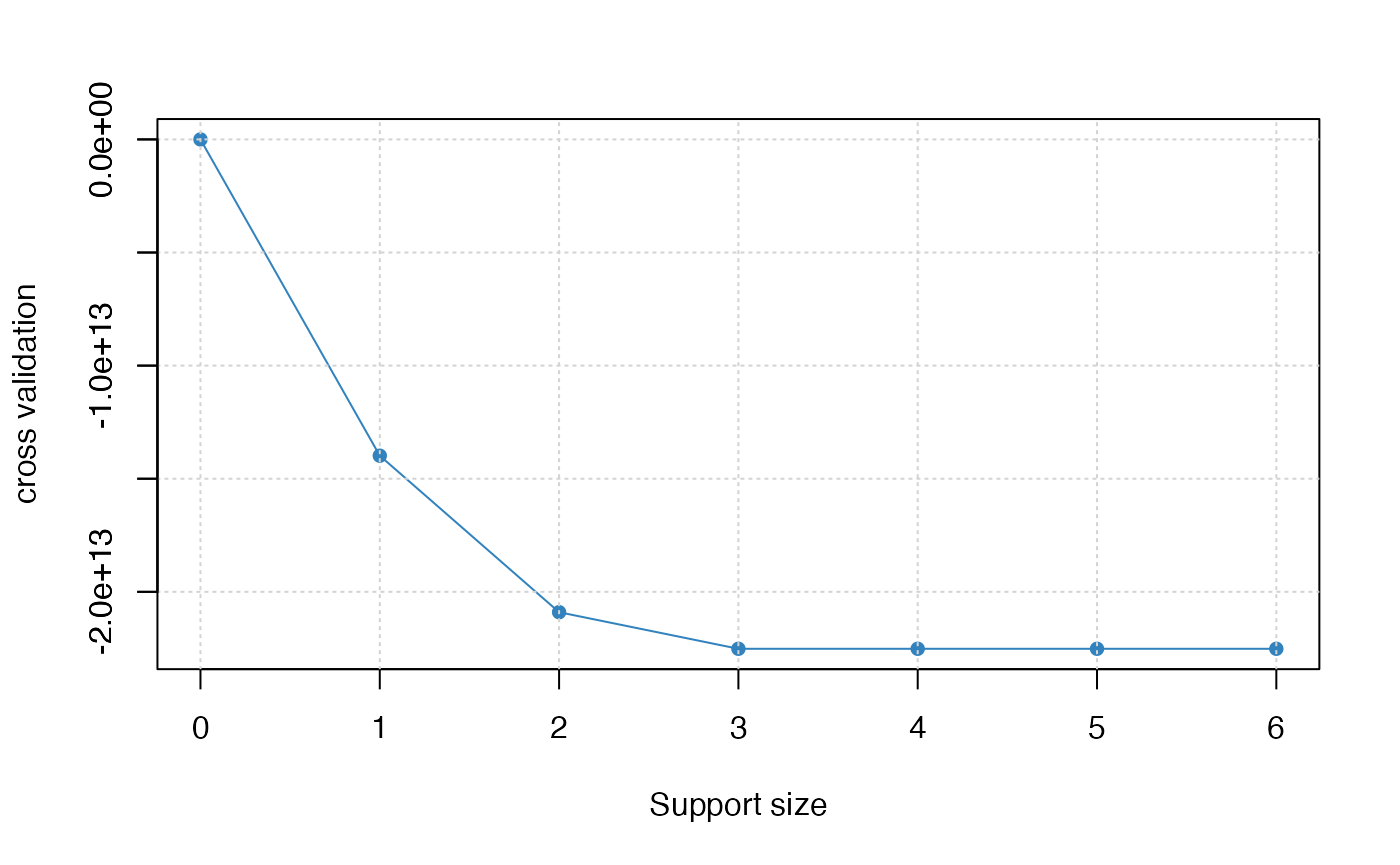
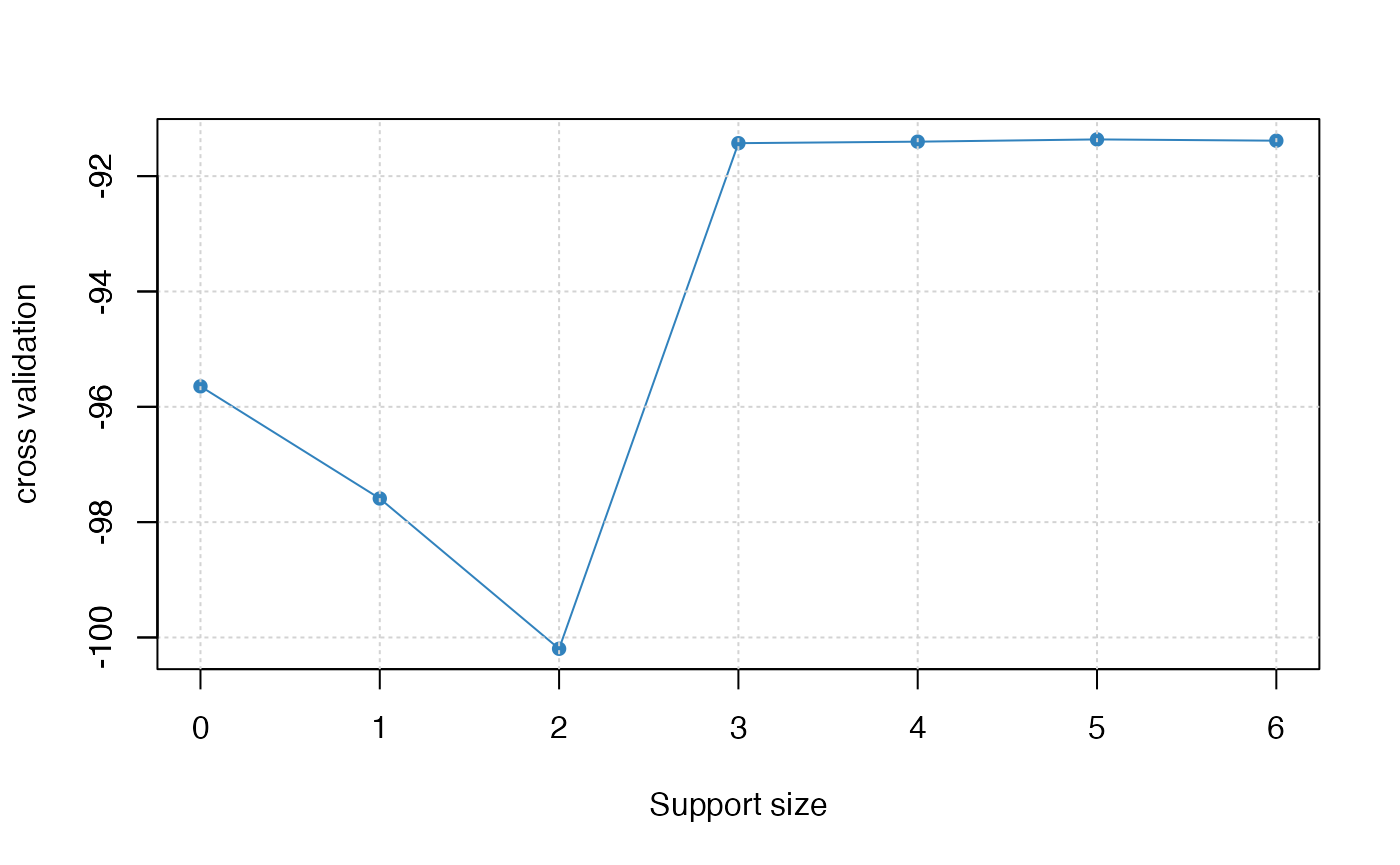
Built site for abess: 0.4.7@f8aaf31

diff --git a/articles/v04-PoissonGammaReg.html b/articles/v04-PoissonGammaReg.html
@@ -42,7 +42,7 @@
       </button>
       <span class="navbar-brand">
         <a class="navbar-link" href="../index.html">abess</a>
-        <span class="version label label-default" data-toggle="tooltip" data-placement="bottom" title="">0.4.6</span>
+        <span class="version label label-default" data-toggle="tooltip" data-placement="bottom" title="">0.4.7</span>
       </span>
     </div>
 
@@ -302,27 +302,26 @@ y_i \sim Gamma(\mu_i, \alpha),
 <span><span class="co"># draw the estimated coefficients on all candidate support size</span></span>
 <span><span class="fu"><a href="https://rdrr.io/r/stats/coef.html" class="external-link">coef</a></span><span class="op">(</span><span class="va">abess_fit</span><span class="op">)</span></span></code></pre></div>
 <pre><code><span><span class="co">## 7 x 7 sparse Matrix of class "dgCMatrix"</span></span>
-<span><span class="co">##                    0            1            2            3            4</span></span>
-<span><span class="co">## (intercept) 342.3786 2.959996e+14 3.779995e+14 3.779995e+14 3.779995e+14</span></span>
-<span><span class="co">## age           .      .            .            .            .           </span></span>
-<span><span class="co">## sex           .      .            .            .            .           </span></span>
-<span><span class="co">## job           .      .            .            .            .           </span></span>
-<span><span class="co">## education     .      .            .            .            .           </span></span>
-<span><span class="co">## region        .      .            .            .            .           </span></span>
-<span><span class="co">## marriage      .      .            .            .            .           </span></span>
-<span><span class="co">##                        5            6</span></span>
-<span><span class="co">## (intercept) 3.779995e+14 3.779995e+14</span></span>
-<span><span class="co">## age         .            .           </span></span>
-<span><span class="co">## sex         .            .           </span></span>
-<span><span class="co">## job         .            .           </span></span>
-<span><span class="co">## education   .            .           </span></span>
-<span><span class="co">## region      .            .           </span></span>
-<span><span class="co">## marriage    .            .</span></span></code></pre>
+<span><span class="co">##                     0         1          2          3          4          5</span></span>
+<span><span class="co">## (intercept) -342.3786 -433.5399 -449.27779 -453.62074 -454.59784 -456.83735</span></span>
+<span><span class="co">## age            .         .         .          .          .         12.70809</span></span>
+<span><span class="co">## sex            .         .         .          .         17.01286   15.27728</span></span>
+<span><span class="co">## job            .         .      -105.29506  -84.15002  -85.32491  -87.44926</span></span>
+<span><span class="co">## education      .         .         .        -72.27035  -71.99079  -71.34322</span></span>
+<span><span class="co">## region         .      -132.5486  -72.92359  -54.95904  -58.83054  -61.00715</span></span>
+<span><span class="co">## marriage       .         .         .          .          .          .      </span></span>
+<span><span class="co">##                        6</span></span>
+<span><span class="co">## (intercept) -456.9221416</span></span>
+<span><span class="co">## age           12.6864623</span></span>
+<span><span class="co">## sex           15.1309584</span></span>
+<span><span class="co">## job          -87.4276072</span></span>
+<span><span class="co">## education    -71.2956647</span></span>
+<span><span class="co">## region       -61.0176080</span></span>
+<span><span class="co">## marriage      -0.8781846</span></span></code></pre>
 <div class="sourceCode" id="cb30"><pre class="downlit sourceCode r">
 <code class="sourceCode R"><span><span class="co"># get the deviance of the estimated model on all candidate support size</span></span>
 <span><span class="fu"><a href="https://rdrr.io/r/stats/deviance.html" class="external-link">deviance</a></span><span class="op">(</span><span class="va">abess_fit</span><span class="op">)</span></span></code></pre></div>
-<pre><code><span><span class="co">## [1]  4.835917e+02 -8.645388e+13 -1.104040e+14 -1.104040e+14 -1.104040e+14</span></span>
-<span><span class="co">## [6] -1.104040e+14 -1.104040e+14</span></span></code></pre>
+<pre><code><span><span class="co">## [1] -483.5917 -497.9948 -504.1093 -505.8884 -505.9648 -506.0127 -506.0129</span></span></code></pre>
 <div class="sourceCode" id="cb32"><pre class="downlit sourceCode r">
 <code class="sourceCode R"><span><span class="co"># print the fitted model</span></span>
 <span><span class="fu"><a href="https://rdrr.io/r/base/print.html" class="external-link">print</a></span><span class="op">(</span><span class="va">abess_fit</span><span class="op">)</span></span></code></pre></div>
@@ -330,24 +329,24 @@ y_i \sim Gamma(\mu_i, \alpha),
 <span><span class="co">## abess.formula(formula = count ~ ., data = complain, family = "gamma", </span></span>
 <span><span class="co">##     tune.type = "cv")</span></span>
 <span><span class="co">## </span></span>
-<span><span class="co">##   support.size           dev            cv</span></span>
-<span><span class="co">## 1            0  4.835917e+02  9.564499e+01</span></span>
-<span><span class="co">## 2            1 -8.645388e+13 -1.398192e+13</span></span>
-<span><span class="co">## 3            2 -1.104040e+14 -2.090066e+13</span></span>
-<span><span class="co">## 4            3 -1.104040e+14 -2.251801e+13</span></span>
-<span><span class="co">## 5            4 -1.104040e+14 -2.251801e+13</span></span>
-<span><span class="co">## 6            5 -1.104040e+14 -2.251801e+13</span></span>
-<span><span class="co">## 7            6 -1.104040e+14 -2.251801e+13</span></span></code></pre>
+<span><span class="co">##   support.size       dev         cv</span></span>
+<span><span class="co">## 1            0 -483.5917  -95.64499</span></span>
+<span><span class="co">## 2            1 -497.9948  -97.58997</span></span>
+<span><span class="co">## 3            2 -504.1093 -100.19614</span></span>
+<span><span class="co">## 4            3 -505.8884  -91.42828</span></span>
+<span><span class="co">## 5            4 -505.9648  -91.40218</span></span>
+<span><span class="co">## 6            5 -506.0127  -91.36313</span></span>
+<span><span class="co">## 7            6 -506.0129  -91.38519</span></span></code></pre>
 <div class="sourceCode" id="cb34"><pre class="downlit sourceCode r">
 <code class="sourceCode R"><span><span class="co"># predict results for given support sizes</span></span>
 <span><span class="fu"><a href="https://rdrr.io/r/utils/head.html" class="external-link">head</a></span><span class="op">(</span><span class="fu"><a href="https://rdrr.io/r/stats/predict.html" class="external-link">predict</a></span><span class="op">(</span><span class="va">abess_fit</span>, newx <span class="op">=</span> <span class="va">dat</span><span class="op">$</span><span class="va">x</span>, support.size <span class="op">=</span> <span class="fu"><a href="https://rdrr.io/r/base/c.html" class="external-link">c</a></span><span class="op">(</span><span class="fl">3</span>, <span class="fl">4</span><span class="op">)</span><span class="op">)</span><span class="op">)</span></span></code></pre></div>
-<pre><code><span><span class="co">##                 3            4</span></span>
-<span><span class="co">## [1,] 3.779995e+14 3.779995e+14</span></span>
-<span><span class="co">## [2,] 3.779995e+14 3.779995e+14</span></span>
-<span><span class="co">## [3,] 3.779995e+14 3.779995e+14</span></span>
-<span><span class="co">## [4,] 3.779995e+14 3.779995e+14</span></span>
-<span><span class="co">## [5,] 3.779995e+14 3.779995e+14</span></span>
-<span><span class="co">## [6,] 3.779995e+14 3.779995e+14</span></span></code></pre>
+<pre><code><span><span class="co">##              3         4</span></span>
+<span><span class="co">## [1,] -611.7083 -627.6304</span></span>
+<span><span class="co">## [2,] -624.2342 -634.1109</span></span>
+<span><span class="co">## [3,] -696.4613 -711.9142</span></span>
+<span><span class="co">## [4,] -376.5679 -373.0617</span></span>
+<span><span class="co">## [5,] -357.9886 -365.3433</span></span>
+<span><span class="co">## [6,] -752.4414 -724.4093</span></span></code></pre>
 <div class="sourceCode" id="cb36"><pre class="downlit sourceCode r">
 <code class="sourceCode R"><span><span class="fu"><a href="https://rdrr.io/r/graphics/plot.default.html" class="external-link">plot</a></span><span class="op">(</span><span class="va">abess_fit</span>, label <span class="op">=</span> <span class="cn">TRUE</span><span class="op">)</span></span></code></pre></div>
 <p><img src="v04-PoissonGammaReg_files/figure-html/unnamed-chunk-9-1.png" width="700"></p>
@@ -361,31 +360,31 @@ y_i \sim Gamma(\mu_i, \alpha),
 <span><span class="fu"><a href="https://rdrr.io/r/utils/str.html" class="external-link">str</a></span><span class="op">(</span><span class="va">best.model</span><span class="op">)</span></span></code></pre></div>
 <pre><code><span><span class="co">## List of 7</span></span>
 <span><span class="co">##  $ beta        :Formal class 'dgCMatrix' [package "Matrix"] with 6 slots</span></span>
-<span><span class="co">##   .. ..@ i       : int(0) </span></span>
-<span><span class="co">##   .. ..@ p       : int [1:2] 0 0</span></span>
+<span><span class="co">##   .. ..@ i       : int [1:3] 2 3 4</span></span>
+<span><span class="co">##   .. ..@ p       : int [1:2] 0 3</span></span>
 <span><span class="co">##   .. ..@ Dim     : int [1:2] 6 1</span></span>
 <span><span class="co">##   .. ..@ Dimnames:List of 2</span></span>
 <span><span class="co">##   .. .. ..$ : chr [1:6] "age" "sex" "job" "education" ...</span></span>
 <span><span class="co">##   .. .. ..$ : chr "3"</span></span>
-<span><span class="co">##   .. ..@ x       : num(0) </span></span>
+<span><span class="co">##   .. ..@ x       : num [1:3] -84.2 -72.3 -55</span></span>
 <span><span class="co">##   .. ..@ factors : list()</span></span>
-<span><span class="co">##  $ intercept   : num 3.78e+14</span></span>
+<span><span class="co">##  $ intercept   : num -454</span></span>
 <span><span class="co">##  $ support.size: num 3</span></span>
-<span><span class="co">##  $ support.vars: chr(0) </span></span>
-<span><span class="co">##  $ support.beta: num(0) </span></span>
-<span><span class="co">##  $ dev         : num -1.1e+14</span></span>
-<span><span class="co">##  $ tune.value  : num -2.25e+13</span></span></code></pre>
+<span><span class="co">##  $ support.vars: chr [1:3] "job" "education" "region"</span></span>
+<span><span class="co">##  $ support.beta: num [1:3] -84.2 -72.3 -55</span></span>
+<span><span class="co">##  $ dev         : num -506</span></span>
+<span><span class="co">##  $ tune.value  : num -91.4</span></span></code></pre>
 <div class="sourceCode" id="cb40"><pre class="downlit sourceCode r">
 <code class="sourceCode R"><span><span class="co"># estimated coefficients</span></span>
 <span><span class="va">best.model</span><span class="op">$</span><span class="va">beta</span></span></code></pre></div>
 <pre><code><span><span class="co">## 6 x 1 sparse Matrix of class "dgCMatrix"</span></span>
-<span><span class="co">##           3</span></span>
-<span><span class="co">## age       .</span></span>
-<span><span class="co">## sex       .</span></span>
-<span><span class="co">## job       .</span></span>
-<span><span class="co">## education .</span></span>
-<span><span class="co">## region    .</span></span>
-<span><span class="co">## marriage  .</span></span></code></pre>
+<span><span class="co">##                   3</span></span>
+<span><span class="co">## age         .      </span></span>
+<span><span class="co">## sex         .      </span></span>
+<span><span class="co">## job       -84.15002</span></span>
+<span><span class="co">## education -72.27035</span></span>
+<span><span class="co">## region    -54.95904</span></span>
+<span><span class="co">## marriage    .</span></span></code></pre>
 </div>
   </div>
 

diff --git a/articles/v09-fasterSetting.html b/articles/v09-fasterSetting.html
@@ -42,7 +42,7 @@
       </button>
       <span class="navbar-brand">
         <a class="navbar-link" href="../index.html">abess</a>
-        <span class="version label label-default" data-toggle="tooltip" data-placement="bottom" title="">0.4.6</span>
+        <span class="version label label-default" data-toggle="tooltip" data-placement="bottom" title="">0.4.7</span>
       </span>
     </div>
 
@@ -176,13 +176,13 @@
 <span><span class="va">x</span> <span class="op">&lt;-</span> <span class="fu"><a href="https://rdrr.io/pkg/Matrix/man/Matrix.html" class="external-link">Matrix</a></span><span class="op">(</span><span class="va">x</span><span class="op">)</span></span>
 <span><span class="fu"><a href="https://rdrr.io/r/utils/head.html" class="external-link">head</a></span><span class="op">(</span><span class="va">x</span><span class="op">[</span>, <span class="fl">1</span><span class="op">:</span><span class="fl">10</span><span class="op">]</span><span class="op">)</span></span></code></pre></div>
 <pre><code><span><span class="co">## 6 x 10 sparse Matrix of class "dgCMatrix"</span></span>
-<span><span class="co">##                                                                        </span></span>
-<span><span class="co">## [1,] . .         .        -1.811195 .        . . -0.1597067 .         .</span></span>
-<span><span class="co">## [2,] . 0.5959406 .         .        .        . .  .         .         .</span></span>
-<span><span class="co">## [3,] . .         .         .        0.587469 . .  .         .         .</span></span>
-<span><span class="co">## [4,] . .         .         .        .        . . -0.4434605 .         .</span></span>
-<span><span class="co">## [5,] . .         .         .        .        . .  .         0.2285387 .</span></span>
-<span><span class="co">## [6,] . .         3.754245  .        .        . .  .         .         .</span></span></code></pre>
+<span><span class="co">##                                                </span></span>
+<span><span class="co">## [1,] . . . .         . . -1.713028 . . .       </span></span>
+<span><span class="co">## [2,] . . . .         . .  .        . . .       </span></span>
+<span><span class="co">## [3,] . . . 0.4823745 . .  .        . . .       </span></span>
+<span><span class="co">## [4,] . . . .         . .  .        . . .       </span></span>
+<span><span class="co">## [5,] . . . .         . .  .        . . .       </span></span>
+<span><span class="co">## [6,] . . . .         . .  .        . . 1.375006</span></span></code></pre>
 <p>Then, we apply ABESS algorithm on Matrix <code>x</code> and record the runtime in <code>t1</code>:</p>
 <div class="sourceCode" id="cb5"><pre class="downlit sourceCode r">
 <code class="sourceCode R"><span><span class="kw"><a href="https://rdrr.io/r/base/library.html" class="external-link">library</a></span><span class="op">(</span><span class="va"><a href="https://github.com/abess-team/abess" class="external-link">abess</a></span><span class="op">)</span></span>
@@ -191,19 +191,19 @@
 <div class="sourceCode" id="cb6"><pre class="downlit sourceCode r">
 <code class="sourceCode R"><span><span class="va">x</span> <span class="op">&lt;-</span> <span class="fu"><a href="https://rdrr.io/r/base/matrix.html" class="external-link">as.matrix</a></span><span class="op">(</span><span class="va">x</span><span class="op">)</span></span>
 <span><span class="fu"><a href="https://rdrr.io/r/utils/head.html" class="external-link">head</a></span><span class="op">(</span><span class="va">x</span><span class="op">[</span>, <span class="fl">1</span><span class="op">:</span><span class="fl">6</span><span class="op">]</span><span class="op">)</span></span></code></pre></div>
-<pre><code><span><span class="co">##      [,1]      [,2]     [,3]      [,4]     [,5] [,6]</span></span>
-<span><span class="co">## [1,]    0 0.0000000 0.000000 -1.811195 0.000000    0</span></span>
-<span><span class="co">## [2,]    0 0.5959406 0.000000  0.000000 0.000000    0</span></span>
-<span><span class="co">## [3,]    0 0.0000000 0.000000  0.000000 0.587469    0</span></span>
-<span><span class="co">## [4,]    0 0.0000000 0.000000  0.000000 0.000000    0</span></span>
-<span><span class="co">## [5,]    0 0.0000000 0.000000  0.000000 0.000000    0</span></span>
-<span><span class="co">## [6,]    0 0.0000000 3.754245  0.000000 0.000000    0</span></span></code></pre>
+<pre><code><span><span class="co">##      [,1] [,2] [,3]      [,4] [,5] [,6]</span></span>
+<span><span class="co">## [1,]    0    0    0 0.0000000    0    0</span></span>
+<span><span class="co">## [2,]    0    0    0 0.0000000    0    0</span></span>
+<span><span class="co">## [3,]    0    0    0 0.4823745    0    0</span></span>
+<span><span class="co">## [4,]    0    0    0 0.0000000    0    0</span></span>
+<span><span class="co">## [5,]    0    0    0 0.0000000    0    0</span></span>
+<span><span class="co">## [6,]    0    0    0 0.0000000    0    0</span></span></code></pre>
 <div class="sourceCode" id="cb8"><pre class="downlit sourceCode r">
 <code class="sourceCode R"><span><span class="va">t2</span> <span class="op">&lt;-</span> <span class="fu"><a href="https://rdrr.io/r/base/system.time.html" class="external-link">system.time</a></span><span class="op">(</span><span class="va">abess_fit</span> <span class="op">&lt;-</span> <span class="fu"><a href="../reference/abess.html">abess</a></span><span class="op">(</span><span class="va">x</span>, <span class="va">y</span><span class="op">)</span><span class="op">)</span></span>
 <span><span class="fu"><a href="https://rdrr.io/r/base/cbind.html" class="external-link">rbind</a></span><span class="op">(</span><span class="va">t1</span>, <span class="va">t2</span><span class="op">)</span><span class="op">[</span>, <span class="fl">1</span><span class="op">:</span><span class="fl">3</span><span class="op">]</span></span></code></pre></div>
 <pre><code><span><span class="co">##    user.self sys.self elapsed</span></span>
-<span><span class="co">## t1     0.275    0.013    0.30</span></span>
-<span><span class="co">## t2     0.335    0.034    0.59</span></span></code></pre>
+<span><span class="co">## t1     0.274    0.011   0.286</span></span>
+<span><span class="co">## t2     0.336    0.035   0.372</span></span></code></pre>
 <p>From the comparison, we see that the time required by sparse matrix is visibly smaller, and thus, we suggest to assign a sparse matrix to <code>abess</code> when the input matrix have a lot of zero entries.</p>
 </div>
 <div class="section level2">
@@ -241,8 +241,8 @@
 <code class="sourceCode R"><span><span class="va">t2</span> <span class="op">&lt;-</span> <span class="fu"><a href="https://rdrr.io/r/base/system.time.html" class="external-link">system.time</a></span><span class="op">(</span><span class="va">abess_fit</span> <span class="op">&lt;-</span> <span class="fu"><a href="../reference/abess.html">abess</a></span><span class="op">(</span><span class="va">y</span> <span class="op">~</span> <span class="va">.</span>, data <span class="op">=</span> <span class="va">dat</span><span class="op">)</span><span class="op">)</span></span>
 <span><span class="fu"><a href="https://rdrr.io/r/base/cbind.html" class="external-link">rbind</a></span><span class="op">(</span><span class="va">t1</span>, <span class="va">t2</span><span class="op">)</span><span class="op">[</span>, <span class="fl">1</span><span class="op">:</span><span class="fl">3</span><span class="op">]</span></span></code></pre></div>
 <pre><code><span><span class="co">##    user.self sys.self elapsed</span></span>
-<span><span class="co">## t1     0.024    0.001   0.029</span></span>
-<span><span class="co">## t2     0.066    0.010   0.137</span></span></code></pre>
+<span><span class="co">## t1     0.021    0.001   0.023</span></span>
+<span><span class="co">## t2     0.063    0.008   0.071</span></span></code></pre>
 </div>
 <div class="section level2">
 <h2 id="early-stop">Early stop<a class="anchor" aria-label="anchor" href="#early-stop"></a>
@@ -320,8 +320,8 @@
 <code class="sourceCode R"><span><span class="va">t2</span> <span class="op">&lt;-</span> <span class="fu"><a href="https://rdrr.io/r/base/system.time.html" class="external-link">system.time</a></span><span class="op">(</span><span class="va">abess_fit</span> <span class="op">&lt;-</span> <span class="fu"><a href="../reference/abess.html">abess</a></span><span class="op">(</span><span class="va">y</span> <span class="op">~</span> <span class="va">.</span>, data <span class="op">=</span> <span class="va">dat</span><span class="op">)</span><span class="op">)</span></span>
 <span><span class="fu"><a href="https://rdrr.io/r/base/cbind.html" class="external-link">rbind</a></span><span class="op">(</span><span class="va">t1</span>, <span class="va">t2</span><span class="op">)</span><span class="op">[</span>, <span class="fl">1</span><span class="op">:</span><span class="fl">3</span><span class="op">]</span></span></code></pre></div>
 <pre><code><span><span class="co">##    user.self sys.self elapsed</span></span>
-<span><span class="co">## t1     0.065    0.009   0.194</span></span>
-<span><span class="co">## t2     0.063    0.007   0.070</span></span></code></pre>
+<span><span class="co">## t1     0.068    0.009   0.076</span></span>
+<span><span class="co">## t2     0.064    0.008   0.073</span></span></code></pre>
 <p>we can conclude that early-stopping brings fast computation and might maintain statistical guarantee.</p>
 </div>
   </div>

diff --git a/reference/abesspca.html b/reference/abesspca.html
@@ -17,7 +17,7 @@
       </button>
       <span class="navbar-brand">
         <a class="navbar-link" href="../index.html">abess</a>
-        <span class="version label label-default" data-toggle="tooltip" data-placement="bottom" title="">0.4.6</span>
+        <span class="version label label-default" data-toggle="tooltip" data-placement="bottom" title="">0.4.7</span>
       </span>
     </div>
 
@@ -398,10 +398,10 @@ because the meaning of these parameters are very similar.</p>
 <span class="r-out co"><span class="r-pr">#&gt;</span> abesspca(x = rob_cov, type = "gram")</span>
 <span class="r-out co"><span class="r-pr">#&gt;</span> </span>
 <span class="r-out co"><span class="r-pr">#&gt;</span>   PC support.size       ev       pev</span>
-<span class="r-out co"><span class="r-pr">#&gt;</span> 1  1            1 5715.252 0.9563173</span>
-<span class="r-out co"><span class="r-pr">#&gt;</span> 2  1            2 5735.199 0.9596549</span>
-<span class="r-out co"><span class="r-pr">#&gt;</span> 3  1            3 5751.868 0.9624442</span>
-<span class="r-out co"><span class="r-pr">#&gt;</span> 4  1            4 5767.298 0.9650261</span>
+<span class="r-out co"><span class="r-pr">#&gt;</span> 1  1            1 6506.162 0.9565399</span>
+<span class="r-out co"><span class="r-pr">#&gt;</span> 2  1            2 6551.150 0.9631540</span>
+<span class="r-out co"><span class="r-pr">#&gt;</span> 3  1            3 6579.990 0.9673941</span>
+<span class="r-out co"><span class="r-pr">#&gt;</span> 4  1            4 6594.506 0.9695282</span>
 <span class="r-in"><span></span></span>
 <span class="r-in"><span><span class="co">## K-component principal component analysis</span></span></span>
 <span class="r-in"><span><span class="va">pca_fit</span> <span class="op">&lt;-</span> <span class="fu">abesspca</span><span class="op">(</span><span class="va">USArrests</span>,</span></span>

diff --git a/news/index.html b/news/index.html
@@ -17,7 +17,7 @@
       </button>
       <span class="navbar-brand">
         <a class="navbar-link" href="../index.html">abess</a>
-        <span class="version label label-default" data-toggle="tooltip" data-placement="bottom" title="">0.4.6</span>
+        <span class="version label label-default" data-toggle="tooltip" data-placement="bottom" title="">0.4.7</span>
       </span>
     </div>
 
@@ -92,6 +92,11 @@
       <small>Source: <a href="https://github.com/abess-team/abess/tree/master/R-package/NEWS.md" class="external-link"><code>NEWS.md</code></a></small>
     </div>
 
+    <div class="section level2">
+<h2 class="page-header" data-toc-text="0.4.7" id="abess-047">abess 0.4.7<a class="anchor" aria-label="anchor" href="#abess-047"></a></h2>
+<ul><li>Allow the other criterion for model selection: AUC for logistic/multinomial regression</li>
+<li>Fix note “Specified C++11: please update to current default of C++17” in <a href="https://cran.r-project.org/web/checks/check_results_abess.html" class="external-link">CRAN</a>.</li>
+</ul></div>
     <div class="section level2">
 <h2 class="page-header" data-toc-text="0.4.6" id="abess-046">abess 0.4.6<small>2022-11-06</small><a class="anchor" aria-label="anchor" href="#abess-046"></a></h2>
 <ul><li>Adapt to the API change of the <code>Matrix</code> package.</li>

diff --git a/reference/abess.html b/reference/abess.html
@@ -19,7 +19,7 @@ positive response, multi-response modeling in polynomial times."><meta property=
       </button>
       <span class="navbar-brand">
         <a class="navbar-link" href="../index.html">abess</a>
-        <span class="version label label-default" data-toggle="tooltip" data-placement="bottom" title="">0.4.6</span>
+        <span class="version label label-default" data-toggle="tooltip" data-placement="bottom" title="">0.4.7</span>
       </span>
     </div>
 

diff --git a/reference/abessrpca.html b/reference/abessrpca.html
@@ -18,7 +18,7 @@ low-rank matrix and sparse matrix via the best subset selection approach"><meta 
       </button>
       <span class="navbar-brand">
         <a class="navbar-link" href="../index.html">abess</a>
-        <span class="version label label-default" data-toggle="tooltip" data-placement="bottom" title="">0.4.6</span>
+        <span class="version label label-default" data-toggle="tooltip" data-placement="bottom" title="">0.4.7</span>
       </span>
     </div>
 

diff --git a/reference/coef.abess.html b/reference/coef.abess.html
@@ -18,7 +18,7 @@ coefficients from a fitted "abess" object.'><meta property="og:image" content="h
       </button>
       <span class="navbar-brand">
         <a class="navbar-link" href="../index.html">abess</a>
-        <span class="version label label-default" data-toggle="tooltip" data-placement="bottom" title="">0.4.6</span>
+        <span class="version label label-default" data-toggle="tooltip" data-placement="bottom" title="">0.4.7</span>
       </span>
     </div>
 

diff --git a/reference/coef.abesspca.html b/reference/coef.abesspca.html
@@ -18,7 +18,7 @@ coefficients from a fitted "abesspca" object.'><meta property="og:image" content
       </button>
       <span class="navbar-brand">
         <a class="navbar-link" href="../index.html">abess</a>
-        <span class="version label label-default" data-toggle="tooltip" data-placement="bottom" title="">0.4.6</span>
+        <span class="version label label-default" data-toggle="tooltip" data-placement="bottom" title="">0.4.7</span>
       </span>
     </div>
 

diff --git a/reference/coef.abessrpca.html b/reference/coef.abessrpca.html
@@ -18,7 +18,7 @@ coefficients from a fitted "abessrpca" object.'><meta property="og:image" conten
       </button>
       <span class="navbar-brand">
         <a class="navbar-link" href="../index.html">abess</a>
-        <span class="version label label-default" data-toggle="tooltip" data-placement="bottom" title="">0.4.6</span>
+        <span class="version label label-default" data-toggle="tooltip" data-placement="bottom" title="">0.4.7</span>
       </span>
     </div>
 

diff --git a/reference/deviance.abess.html b/reference/deviance.abess.html
@@ -18,7 +18,7 @@ which returns deviance from a fitted "abess" object.'><meta property="og:image" 
       </button>
       <span class="navbar-brand">
         <a class="navbar-link" href="../index.html">abess</a>
-        <span class="version label label-default" data-toggle="tooltip" data-placement="bottom" title="">0.4.6</span>
+        <span class="version label label-default" data-toggle="tooltip" data-placement="bottom" title="">0.4.7</span>
       </span>
     </div>
 

diff --git a/reference/extract.abess.html b/reference/extract.abess.html
@@ -19,7 +19,7 @@ predictors, coefficient estimation, and so on."><meta property="og:image" conten
       </button>
       <span class="navbar-brand">
         <a class="navbar-link" href="../index.html">abess</a>
-        <span class="version label label-default" data-toggle="tooltip" data-placement="bottom" title="">0.4.6</span>
+        <span class="version label label-default" data-toggle="tooltip" data-placement="bottom" title="">0.4.7</span>
       </span>
     </div>
 

diff --git a/reference/generate.data.html b/reference/generate.data.html
@@ -18,7 +18,7 @@ generalized linear model and Cox proportional hazard model."><meta property="og:
       </button>
       <span class="navbar-brand">
         <a class="navbar-link" href="../index.html">abess</a>
-        <span class="version label label-default" data-toggle="tooltip" data-placement="bottom" title="">0.4.6</span>
+        <span class="version label label-default" data-toggle="tooltip" data-placement="bottom" title="">0.4.7</span>
       </span>
     </div>
 
